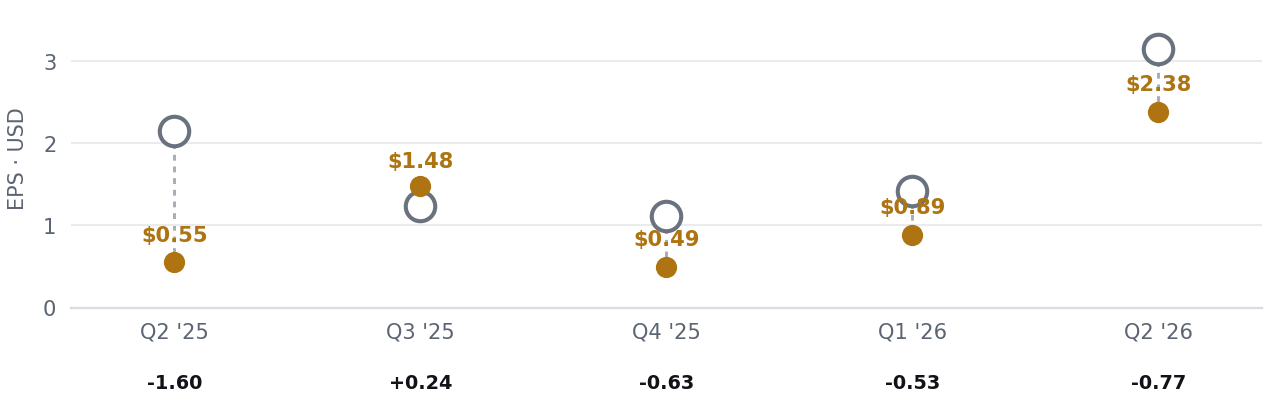
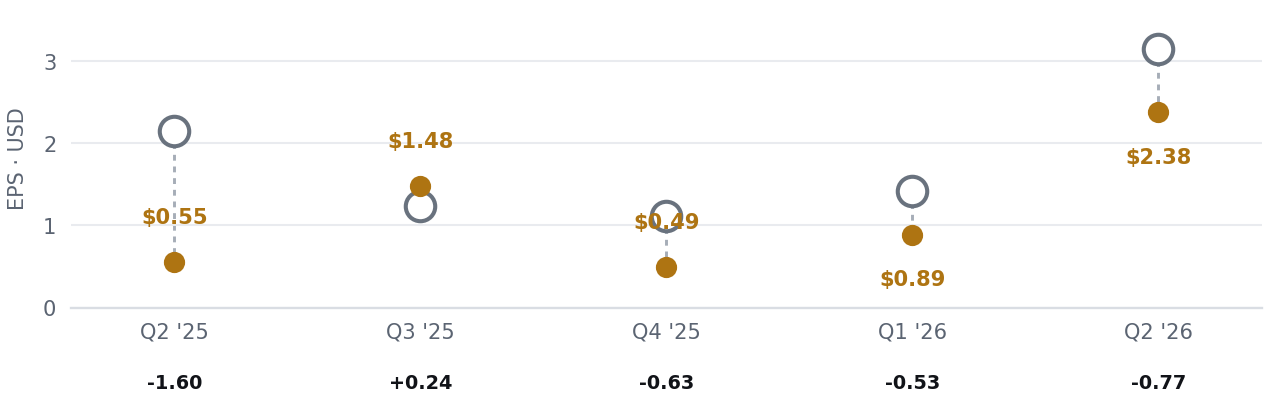
Clear labels from financial chart markers

diff --git a/react-site/research/vista-vs-vistra/index.html b/react-site/research/vista-vs-vistra/index.html
@@ -2571,10 +2571,10 @@
               <strong data-financial-summary="revenue" hidden>$1.23bn reported / $1.19bn consensus</strong>
             </div>
             <figure id="vista-eps-panel" class="delivery-chart" role="tabpanel" aria-labelledby="vista-eps-tab" data-financial-chart="eps">
-              <img src="assets/chart-vista-eps-delivery.png" width="1270" height="401" alt="Vista quarterly EPS consensus shown as open circles and reported EPS shown as filled gold circles from Q2 2025 through Q2 2026." />
+              <img src="assets/chart-vista-eps-delivery.png?v=20260826-2" width="1270" height="401" alt="Vista quarterly EPS consensus shown as open circles and reported EPS shown as filled gold circles from Q2 2025 through Q2 2026." />
             </figure>
             <figure id="vista-revenue-panel" class="delivery-chart" role="tabpanel" aria-labelledby="vista-revenue-tab" data-financial-chart="revenue" hidden>
-              <img src="assets/chart-vista-revenue-delivery.png" width="1290" height="401" alt="Vista quarterly revenue consensus shown as open circles and reported revenue shown as filled gold circles from Q2 2025 through Q2 2026." />
+              <img src="assets/chart-vista-revenue-delivery.png?v=20260826-2" width="1290" height="401" alt="Vista quarterly revenue consensus shown as open circles and reported revenue shown as filled gold circles from Q2 2025 through Q2 2026." />
             </figure>
             <p class="delivery-note">EPS surprise is shown in dollars; revenue surprise in percent. Vendor-defined historical figures.<a class="cite" href="#source-11" aria-label="Source 11">11</a></p>
           </article>
@@ -2593,10 +2593,10 @@
               <strong data-financial-summary="revenue" hidden>$4.02bn reported / $5.46bn consensus</strong>
             </div>
             <figure id="vistra-eps-panel" class="delivery-chart" role="tabpanel" aria-labelledby="vistra-eps-tab" data-financial-chart="eps">
-              <img src="assets/chart-vistra-eps-delivery.png" width="1270" height="401" alt="Vistra quarterly EPS consensus shown as open circles and reported EPS shown as filled blue circles from Q2 2025 through Q2 2026." />
+              <img src="assets/chart-vistra-eps-delivery.png?v=20260826-2" width="1270" height="401" alt="Vistra quarterly EPS consensus shown as open circles and reported EPS shown as filled blue circles from Q2 2025 through Q2 2026." />
             </figure>
             <figure id="vistra-revenue-panel" class="delivery-chart" role="tabpanel" aria-labelledby="vistra-revenue-tab" data-financial-chart="revenue" hidden>
-              <img src="assets/chart-vistra-revenue-delivery.png" width="1270" height="401" alt="Vistra quarterly revenue consensus shown as open circles and reported revenue shown as filled blue circles from Q2 2025 through Q2 2026." />
+              <img src="assets/chart-vistra-revenue-delivery.png?v=20260826-2" width="1270" height="401" alt="Vistra quarterly revenue consensus shown as open circles and reported revenue shown as filled blue circles from Q2 2025 through Q2 2026." />
             </figure>
             <p class="delivery-note">EPS surprise is shown in dollars; revenue surprise in percent. Vendor-defined historical figures.<a class="cite" href="#source-12" aria-label="Source 12">12</a></p>
           </article>

diff --git a/research/vista-vs-vistra/index.html b/research/vista-vs-vistra/index.html
@@ -2571,10 +2571,10 @@
               <strong data-financial-summary="revenue" hidden>$1.23bn reported / $1.19bn consensus</strong>
             </div>
             <figure id="vista-eps-panel" class="delivery-chart" role="tabpanel" aria-labelledby="vista-eps-tab" data-financial-chart="eps">
-              <img src="assets/chart-vista-eps-delivery.png" width="1270" height="401" alt="Vista quarterly EPS consensus shown as open circles and reported EPS shown as filled gold circles from Q2 2025 through Q2 2026." />
+              <img src="assets/chart-vista-eps-delivery.png?v=20260826-2" width="1270" height="401" alt="Vista quarterly EPS consensus shown as open circles and reported EPS shown as filled gold circles from Q2 2025 through Q2 2026." />
             </figure>
             <figure id="vista-revenue-panel" class="delivery-chart" role="tabpanel" aria-labelledby="vista-revenue-tab" data-financial-chart="revenue" hidden>
-              <img src="assets/chart-vista-revenue-delivery.png" width="1290" height="401" alt="Vista quarterly revenue consensus shown as open circles and reported revenue shown as filled gold circles from Q2 2025 through Q2 2026." />
+              <img src="assets/chart-vista-revenue-delivery.png?v=20260826-2" width="1290" height="401" alt="Vista quarterly revenue consensus shown as open circles and reported revenue shown as filled gold circles from Q2 2025 through Q2 2026." />
             </figure>
             <p class="delivery-note">EPS surprise is shown in dollars; revenue surprise in percent. Vendor-defined historical figures.<a class="cite" href="#source-11" aria-label="Source 11">11</a></p>
           </article>
@@ -2593,10 +2593,10 @@
               <strong data-financial-summary="revenue" hidden>$4.02bn reported / $5.46bn consensus</strong>
             </div>
             <figure id="vistra-eps-panel" class="delivery-chart" role="tabpanel" aria-labelledby="vistra-eps-tab" data-financial-chart="eps">
-              <img src="assets/chart-vistra-eps-delivery.png" width="1270" height="401" alt="Vistra quarterly EPS consensus shown as open circles and reported EPS shown as filled blue circles from Q2 2025 through Q2 2026." />
+              <img src="assets/chart-vistra-eps-delivery.png?v=20260826-2" width="1270" height="401" alt="Vistra quarterly EPS consensus shown as open circles and reported EPS shown as filled blue circles from Q2 2025 through Q2 2026." />
             </figure>
             <figure id="vistra-revenue-panel" class="delivery-chart" role="tabpanel" aria-labelledby="vistra-revenue-tab" data-financial-chart="revenue" hidden>
-              <img src="assets/chart-vistra-revenue-delivery.png" width="1270" height="401" alt="Vistra quarterly revenue consensus shown as open circles and reported revenue shown as filled blue circles from Q2 2025 through Q2 2026." />
+              <img src="assets/chart-vistra-revenue-delivery.png?v=20260826-2" width="1270" height="401" alt="Vistra quarterly revenue consensus shown as open circles and reported revenue shown as filled blue circles from Q2 2025 through Q2 2026." />
             </figure>
             <p class="delivery-note">EPS surprise is shown in dollars; revenue surprise in percent. Vendor-defined historical figures.<a class="cite" href="#source-12" aria-label="Source 12">12</a></p>
           </article>
